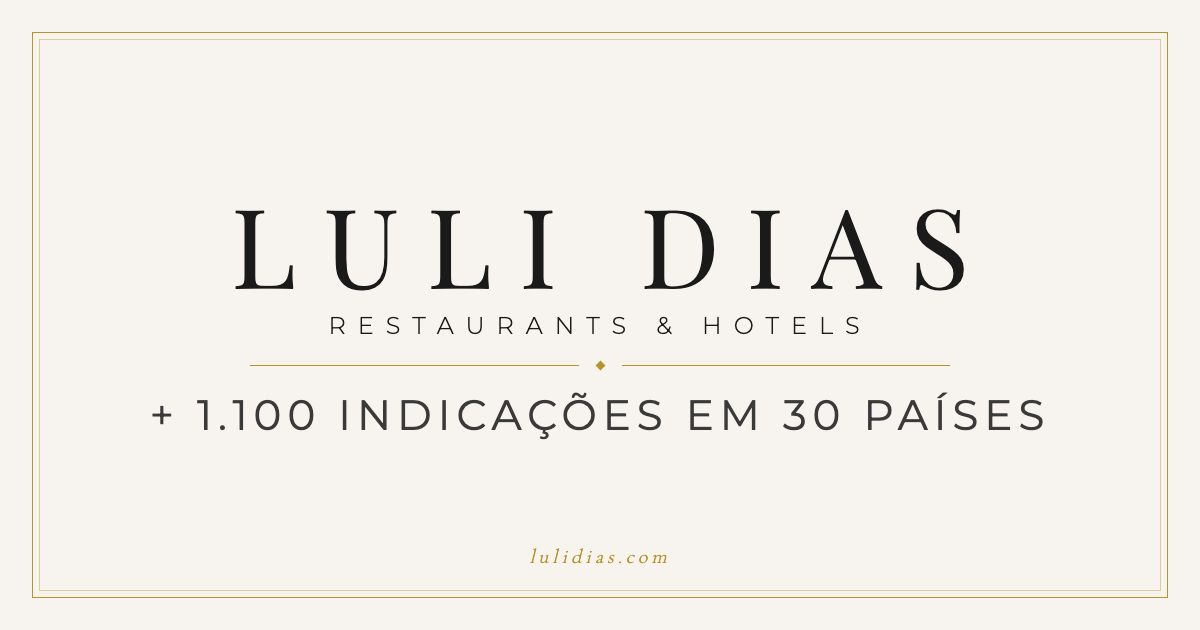
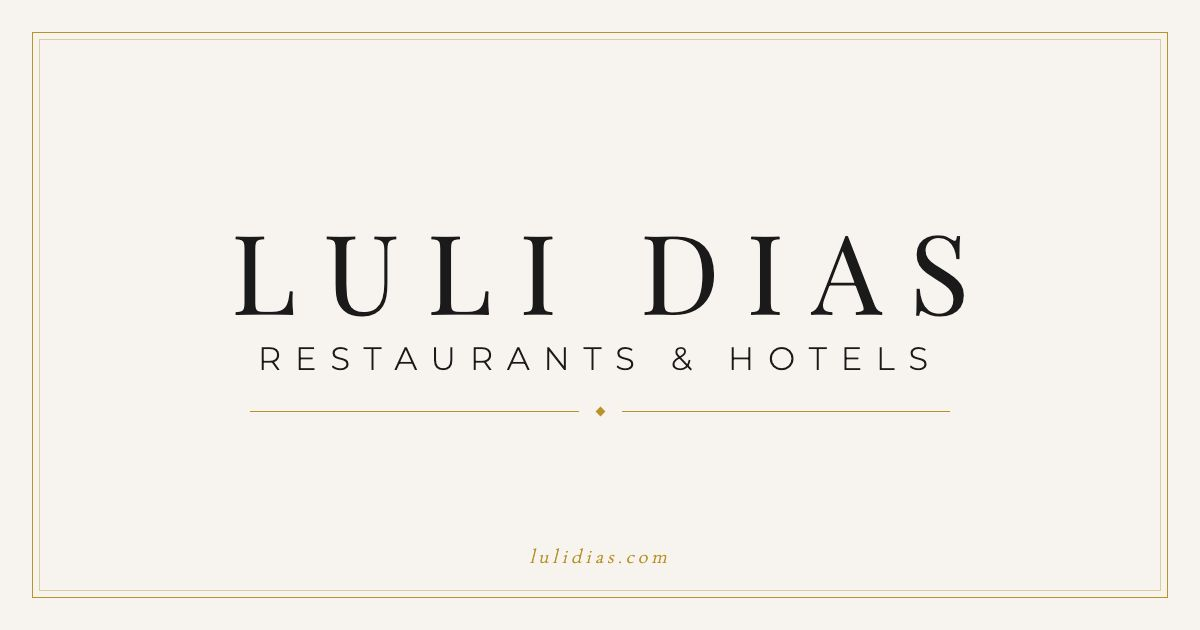
og-image: layout limpo — remove contagem, aumenta tagline para 32px

diff --git a/og-image-source.html b/og-image-source.html
@@ -45,19 +45,19 @@
   }
   .brand-tagline {
     font-family: 'Montserrat', sans-serif;
-    font-size: 24px;
+    font-size: 32px;
     font-weight: 300;
     color: #1A1A1A;
-    letter-spacing: 12px;
+    letter-spacing: 14px;
     text-transform: uppercase;
-    margin-top: 12px;
+    margin-top: 14px;
     text-align: center;
   }
   .divider {
     display: flex;
     align-items: center;
     gap: 18px;
-    margin: 22px 0 20px;
+    margin: 30px 0 0;
     width: 700px;
   }
   .divider-line {
@@ -71,15 +71,6 @@
     background: #B8922A;
     transform: rotate(45deg);
     flex-shrink: 0;
-  }
-  .stat {
-    font-family: 'Montserrat', sans-serif;
-    font-size: 42px;
-    font-weight: 400;
-    color: #3A3A3A;
-    letter-spacing: 6px;
-    text-transform: uppercase;
-    text-align: center;
   }
   .domain {
     position: absolute;
@@ -102,7 +93,6 @@
       <div class="divider-diamond"></div>
       <div class="divider-line"></div>
     </div>
-    <div class="stat">+ 1.100 Indicações em 30 Países</div>
     <div class="domain">lulidias.com</div>
   </div>
 </body>
